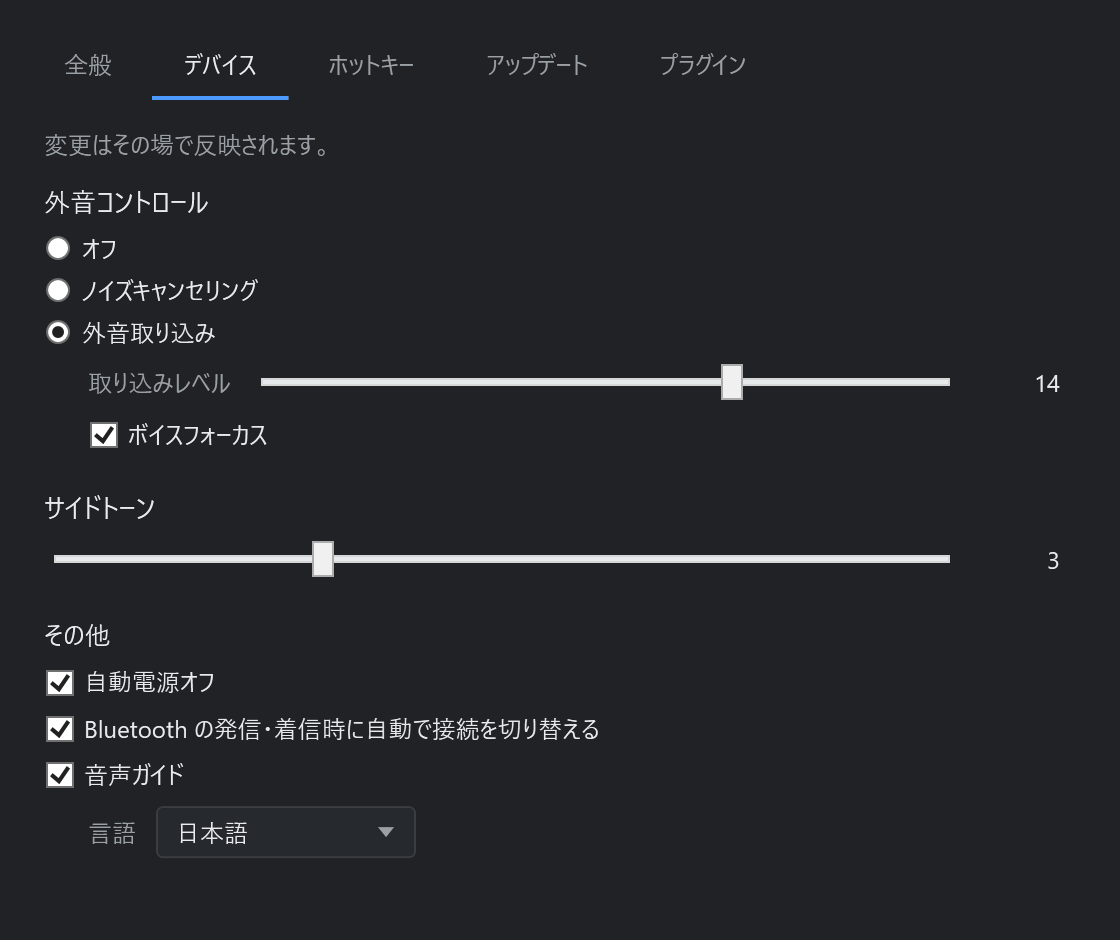
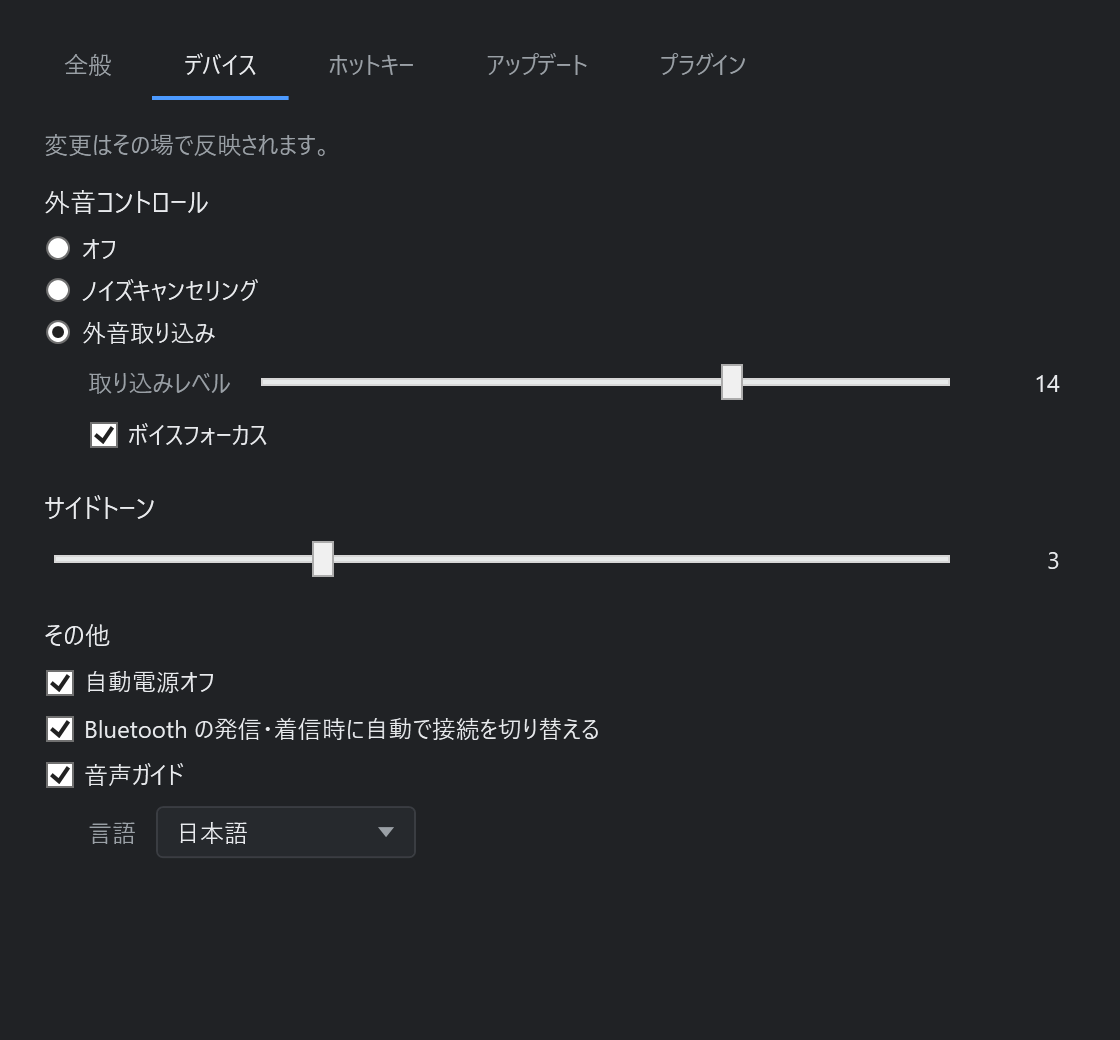
Make the settings window tall enough for the device tab
The device tab was 28 px taller than the window, so it came with a scroll bar
for the sake of the last row. 520 rather than 470 fits it with 22 px to spare,
and leaves the hotkey table 65.

Measured rather than guessed: tools/ShowSettings now reports, for every tab,
how much taller its content is than the window it is in - which is a thing
that can only be seen once the window has actually been built and laid out.

diff --git a/src/OpenInzone.Tray/SettingsWindow.xaml b/src/OpenInzone.Tray/SettingsWindow.xaml
@@ -1,7 +1,7 @@
 <Window xmlns="http://schemas.microsoft.com/winfx/2006/xaml/presentation"
         xmlns:x="http://schemas.microsoft.com/winfx/2006/xaml"
         x:Class="OpenInzone.Tray.SettingsWindow"
-        Title="OpenInzone の設定" Width="560" Height="470"
+        Title="OpenInzone の設定" Width="560" Height="520"
         WindowStartupLocation="CenterScreen" ResizeMode="NoResize"
         Background="#FF202225">
   <Window.Resources>

diff --git a/tools/ShowSettings/Program.cs b/tools/ShowSettings/Program.cs
@@ -2,6 +2,7 @@
 // Copyright (C) 2026 penguinwokrs
 
 using System.IO;
+using System.Windows;
 using System.Windows.Controls;
 using System.Windows.Media;
 using System.Windows.Media.Imaging;
@@ -87,6 +88,7 @@ internal static class Program
                 }
 
                 Report(window);
+                ReportScrolling(window, tabs);
                 window.Close();
             });
         }
@@ -113,6 +115,42 @@ internal static class Program
         {
             application.Dispatcher.Invoke(() => { }, System.Windows.Threading.DispatcherPriority.Background);
             Thread.Sleep(50);
+        }
+    }
+
+    /// <summary>
+    /// Whether any tab is taller than the window it is in. The window does not resize, so a tab
+    /// that outgrows it gets a scroll bar rather than a complaint, and nobody notices until they
+    /// are looking at one.
+    /// </summary>
+    private static void ReportScrolling(Window window, TabControl tabs)
+    {
+        for (int index = 0; index < tabs.Items.Count; index++)
+        {
+            tabs.SelectedIndex = index;
+            window.UpdateLayout();
+
+            string header = ((TabItem)tabs.Items[index]).Header?.ToString() ?? $"{index}";
+            foreach (var viewer in Descendants(window).OfType<ScrollViewer>())
+            {
+                if (viewer.ExtentHeight <= 0) continue;
+
+                double over = viewer.ExtentHeight - viewer.ViewportHeight;
+                Console.WriteLine(over > 0.5
+                    ? $"{header}: {over:0} px too tall for the window (needs {viewer.ExtentHeight:0}, has {viewer.ViewportHeight:0})"
+                    : $"{header}: fits, {-over:0} px to spare");
+            }
+        }
+    }
+
+    private static IEnumerable<DependencyObject> Descendants(DependencyObject root)
+    {
+        int count = System.Windows.Media.VisualTreeHelper.GetChildrenCount(root);
+        for (int index = 0; index < count; index++)
+        {
+            var child = System.Windows.Media.VisualTreeHelper.GetChild(root, index);
+            yield return child;
+            foreach (var further in Descendants(child)) yield return further;
         }
     }
 
